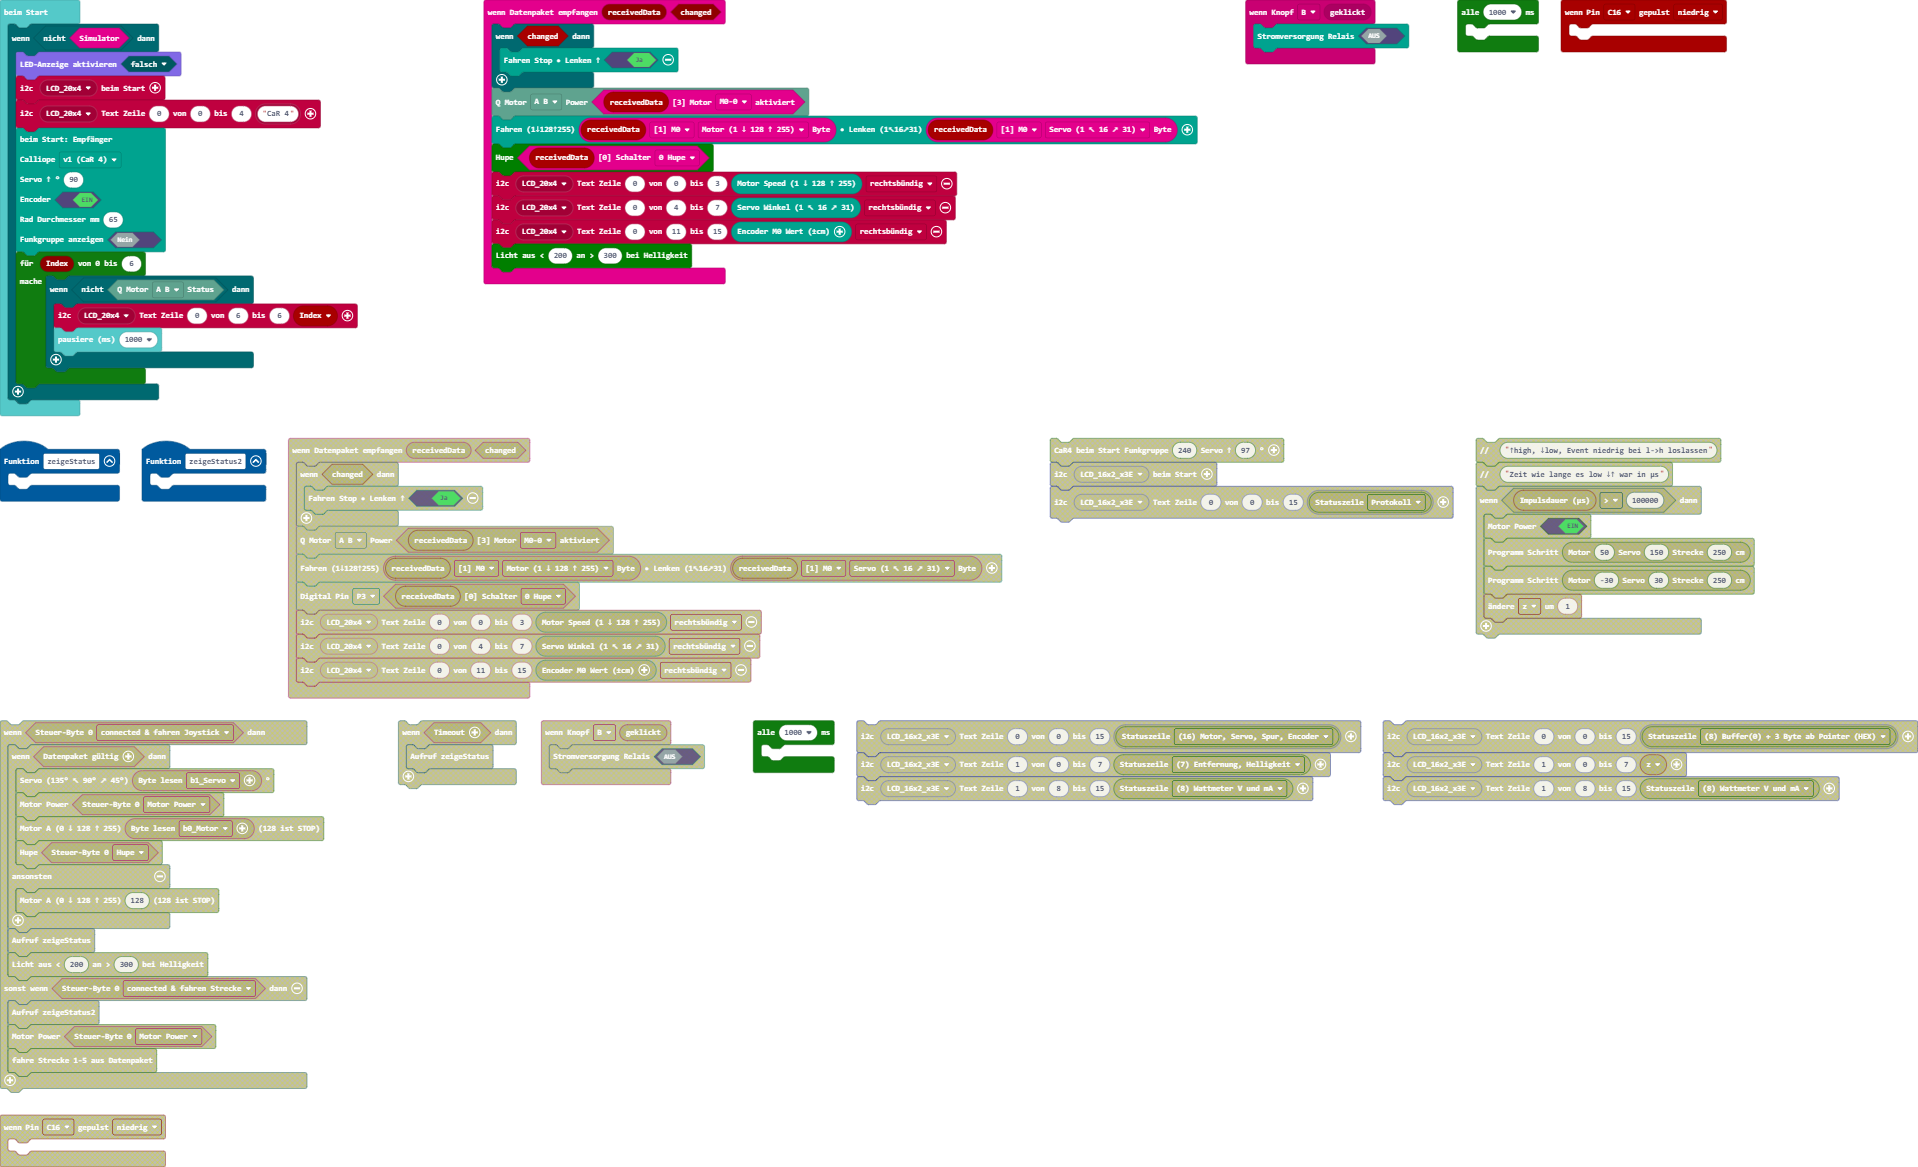
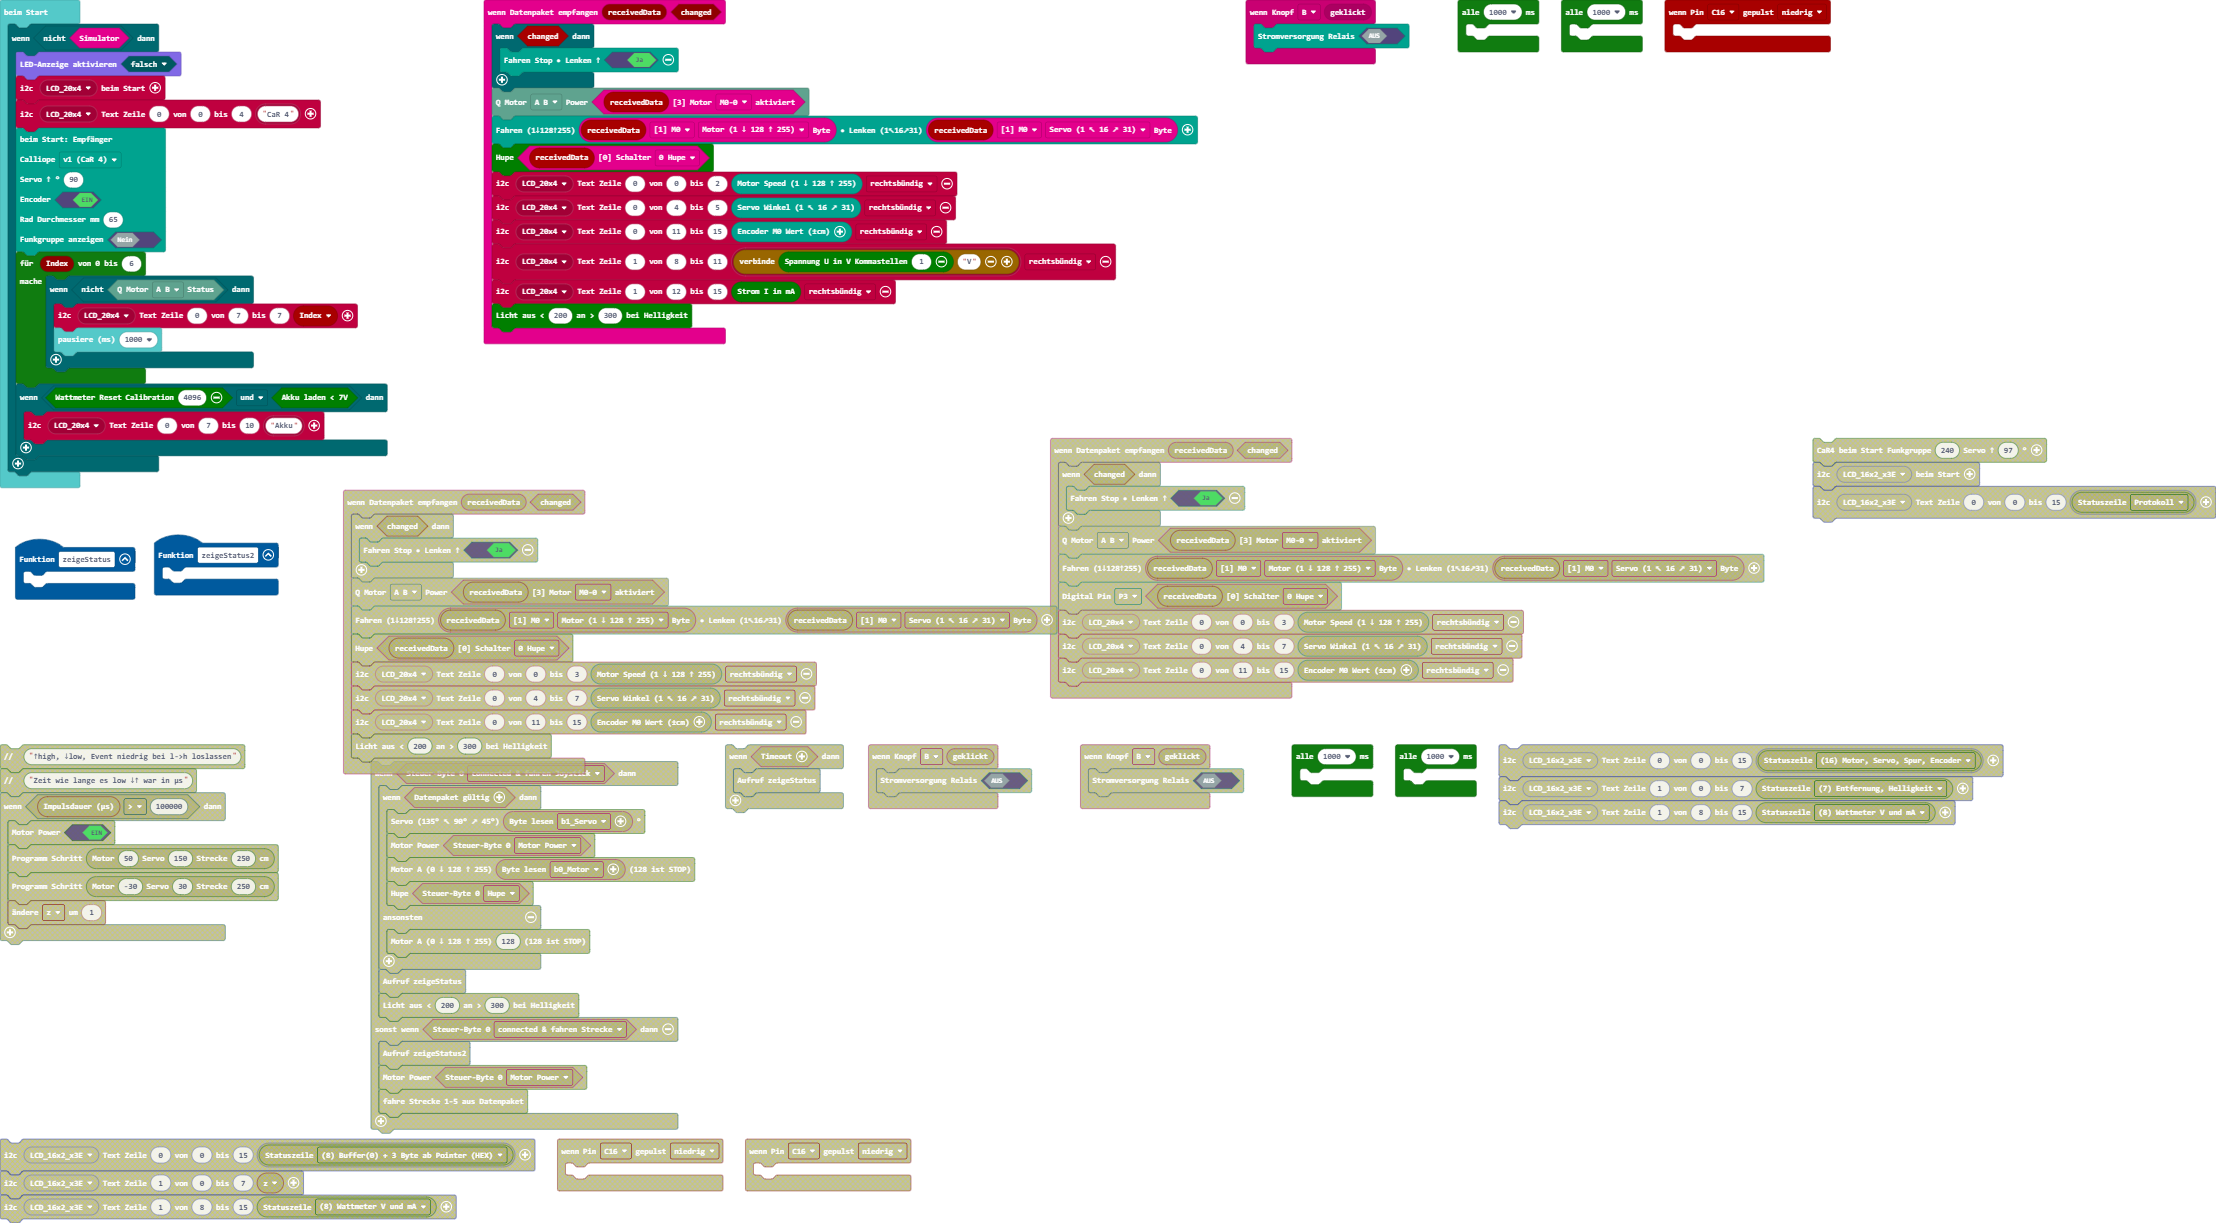
Aktualisiere pxt.json, main.blocks, main.ts, wattmeter.ts

diff --git a/wattmeter.ts b/wattmeter.ts
@@ -1,0 +1,76 @@
+
+namespace car { // wattmeter.ts
+
+    // I²C Adresse Wattmeter Modul
+    export const i2cWattmeter = 0x45
+    // Register
+    enum eRegister {
+        REG_CONFIG = 0x00,          // Config register
+        //REG_SHUNTVOLTAGE = 0x01,    // Shunt Voltage Register
+        REG_BUSVOLTAGE = 0x02,      // Bus Voltage Register
+        //REG_POWER = 0x03,           // Power Register
+        REG_CURRENT = 0x04,         // Current Register
+        REG_CALIBRATION = 0x05      // Register Calibration
+    }
+
+    //% group="Wattmeter" advanced=true
+    //% block="Wattmeter Reset || Calibration %calibration_value" weight=8
+    //% calibration_value.defl=4096
+    export function wattmeterReset(calibration_value?: number): boolean {
+        //n_i2cCheck = (ck ? true : false) // optionaler boolean Parameter kann undefined sein
+        //n_i2cError = 0 // Reset Fehlercode
+
+        //write_register(pADDR, eRegister.REG_CONFIG, INA219_CONFIG_RESET) // 0x8000
+        //writeCONFIGURATION(pADDR, 0x8000)
+        //writeCALIBRATION(pADDR, calibration_value)
+
+        if (write_register(eRegister.REG_CONFIG, 0x8000) == 0) // INA219_CONFIG_RESET
+            return write_register(eRegister.REG_CALIBRATION, calibration_value) == 0
+        else
+            return false
+    }
+
+    //% group="Wattmeter" advanced=true
+    //% block="Spannung U in V || Kommastellen %digits" weight=6
+    //% digits.min=0 digits.max=2 digits.defl=1
+    export function wattmeterV(digits = 1) { // get the BusVoltage （Voltage of IN- to GND)
+        // die letzten 3 Bit 2-1-0 gehögen nicht zum Messwert | - | CNVR | OVF
+        //return (read_Register_UInt16BE(pADDR, eRegister.REG_BUSVOLTAGE) >> 3) * 0.004    // cpp  0.004/8=0.0005
+        return Math.roundWithPrecision((read_register(eRegister.REG_BUSVOLTAGE).getNumber(NumberFormat.UInt16BE, 0) >> 3) * 0.004, digits)
+        //return (read_register(eRegister.REG_BUSVOLTAGE).getNumber(NumberFormat.UInt16BE, 0) >> 3) * 0.004    // cpp  0.004/8=0.0005
+    }
+
+    //% group="Wattmeter" advanced=true
+    //% block="Strom I in mA" weight=5
+    export function wattmetermA() { // get the Current(Current flows across IN+ and IN-)
+        //return read_Register_mit_Vorzeichen_Int16BE(pADDR, eRegister.REG_CURRENT)
+        return read_register(eRegister.REG_CURRENT).getNumber(NumberFormat.Int16BE, 0)
+    }
+
+    // group="Wattmeter" advanced=true
+    // block="V und mA als Text (8)" weight=3
+    //function wattmetertext() { return format(wattmeterV(1), 3, eAlign.right) + "V" + format(wattmetermA(), 4, eAlign.right) }
+
+    //% group="Wattmeter" advanced=true
+    //% block="Akku laden < 7V" weight=2
+    export function wattmeterakkuleer() { // kleiner als 7.0 Volt
+        read_register(eRegister.REG_BUSVOLTAGE) // einmal mehr lesen, Wert stimmt bei ersten Mal nicht
+        return wattmeterV(1) < 7
+    }
+
+
+
+    // ========== PRIVATE nur für wattmeter ==========
+
+    function read_register(register: eRegister): Buffer { // return: Buffer
+        pins.i2cWriteBuffer(i2cWattmeter, Buffer.fromArray([register]), true)
+        return pins.i2cReadBuffer(i2cWattmeter, 2)
+    }
+
+    function write_register(register: eRegister, value: number) { // value: uint16_t
+        let bu = Buffer.create(3)
+        bu.setUint8(0, register)
+        bu.setNumber(NumberFormat.UInt16BE, 1, value)
+        return pins.i2cWriteBuffer(i2cWattmeter, bu)
+    }
+} // wattmeter.ts

diff --git a/main.ts b/main.ts
@@ -17,9 +17,11 @@ btf.onReceivedDataChanged(function (receivedData, changed) {
     receiver.qwiicMotorChipPower(receiver.eQwiicMotorChip.ab, btf.getaktiviert(receivedData, btf.e3aktiviert.m0))
     receiver.selectMotor128Servo16(btf.getByte(receivedData, btf.eBufferPointer.m0, btf.eBufferOffset.b0_Motor), btf.getByte(receivedData, btf.eBufferPointer.m0, btf.eBufferOffset.b1_Servo))
     car.buzzer(btf.getSchalter(receivedData, btf.e0Schalter.b0))
-    lcd20x4.writeText(lcd20x4.lcd20x4_eADDR(lcd20x4.eADDR.LCD_20x4), 0, 0, 3, receiver.selectMotorSpeed(), lcd20x4.eAlign.right)
-    lcd20x4.writeText(lcd20x4.lcd20x4_eADDR(lcd20x4.eADDR.LCD_20x4), 0, 4, 7, receiver.pinServoWinkel(), lcd20x4.eAlign.right)
+    lcd20x4.writeText(lcd20x4.lcd20x4_eADDR(lcd20x4.eADDR.LCD_20x4), 0, 0, 2, receiver.selectMotorSpeed(), lcd20x4.eAlign.right)
+    lcd20x4.writeText(lcd20x4.lcd20x4_eADDR(lcd20x4.eADDR.LCD_20x4), 0, 4, 5, receiver.pinServoWinkel(), lcd20x4.eAlign.right)
     lcd20x4.writeText(lcd20x4.lcd20x4_eADDR(lcd20x4.eADDR.LCD_20x4), 0, 11, 15, receiver.encoderCounterM0(), lcd20x4.eAlign.right)
+    lcd20x4.writeText(lcd20x4.lcd20x4_eADDR(lcd20x4.eADDR.LCD_20x4), 1, 8, 11, lcd20x4.lcd20x4_text("" + car.wattmeterV(1) + "V"), lcd20x4.eAlign.right)
+    lcd20x4.writeText(lcd20x4.lcd20x4_eADDR(lcd20x4.eADDR.LCD_20x4), 1, 12, 15, car.wattmetermA(), lcd20x4.eAlign.right)
     car.licht_sensor(200, 300)
 })
 if (!(btf.simulator())) {
@@ -35,11 +37,20 @@ if (!(btf.simulator())) {
     )
     for (let Index = 0; Index <= 6; Index++) {
         if (!(receiver.qwiicMotorStatus(receiver.eQwiicMotorChip.ab))) {
-            lcd20x4.writeText(lcd20x4.lcd20x4_eADDR(lcd20x4.eADDR.LCD_20x4), 0, 6, 6, Index)
+            lcd20x4.writeText(lcd20x4.lcd20x4_eADDR(lcd20x4.eADDR.LCD_20x4), 0, 7, 7, Index)
             basic.pause(1000)
         }
     }
+    if (car.wattmeterReset(4096) && car.wattmeterakkuleer()) {
+        lcd20x4.writeText(lcd20x4.lcd20x4_eADDR(lcd20x4.eADDR.LCD_20x4), 0, 7, 10, lcd20x4.lcd20x4_text("Akku"))
+    }
 }
+loops.everyInterval(1000, function () {
+	
+})
+loops.everyInterval(1000, function () {
+	
+})
 loops.everyInterval(1000, function () {
 	
 })
